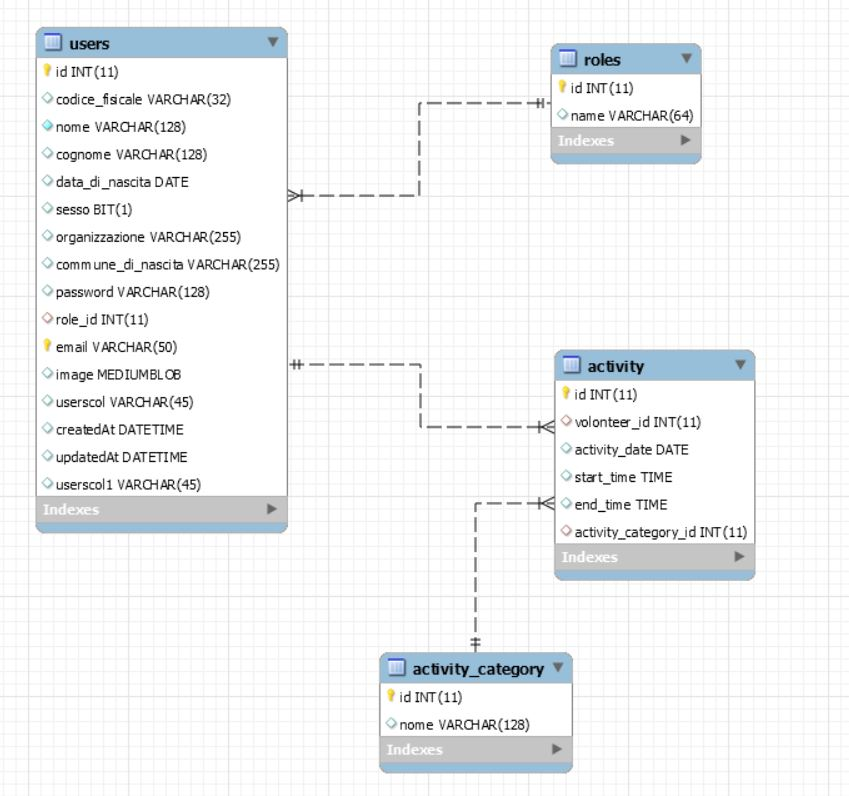
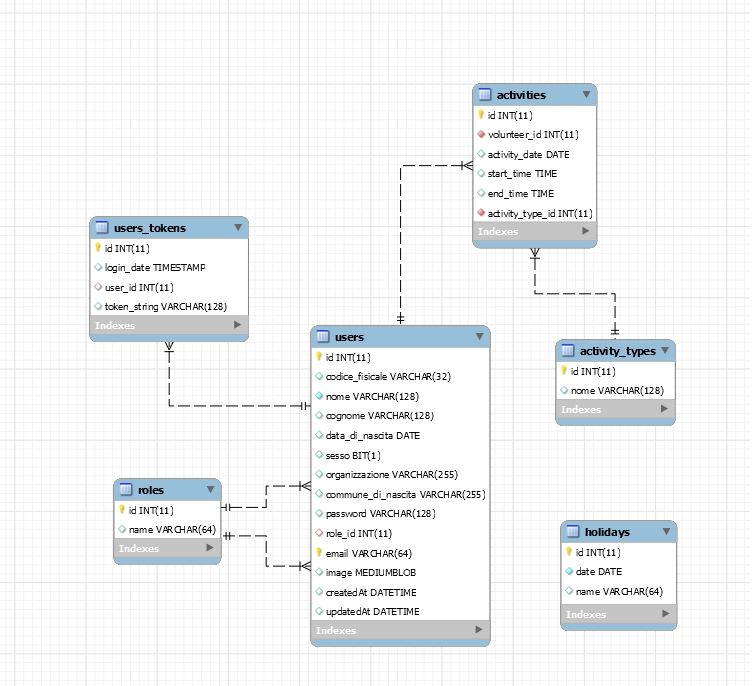
backend commit:
1. created db model file: users.js
2. created db model file: roles.js
3. created db model file: activities.js
4. created db model file: activity-types.js
5. created file: dbconfig.js with connection config

Created tables: users_tokens to store auth tokens
Created tables: holidays to store holidays

updated dbdiagram.JPG
updated install.sql / added tables

diff --git a/Backend/db/models/users.js b/Backend/db/models/users.js
@@ -1,0 +1,55 @@
+const Sequelize   = require('sequelize');
+const DataType    = require('sequelize').DataTypes;
+
+const sequelize = new Sequelize(config.database, config.user, config.password, {
+    host: config.host,
+    dialect: config.type
+});
+
+
+const User = sequelize.define('user', {
+    id: { 
+        type:       DataType.INTEGER, 
+        primaryKey: true, 
+    },
+
+    codice_fisicale:        DataType.STRING(32),
+    nome:                   DataType.STRING(128),
+    cognome:                DataType.STRING(128),
+    data_di_nascita:        DataType.DATE,
+    
+    sesso:                  { 
+        type: DataType.BIT, 
+        defaultValue: true 
+    },
+
+    organizzazione:         DataType.STRING(255),
+    commune_di_nascita:     DataType.STRING(255),
+    password:               DataType.STRING(128),
+    email: { 
+        type: DataType.STRING(128),
+        name: "email",
+        unique: true
+    },
+
+    role_id: {
+        type: DataType.INTEGER,
+        references: {
+            model: roles,
+            key: 'id',
+            defaultValue: 3
+        }
+
+    },
+    createdAt:              DataType.DATE,
+    updatedAt:              DataType.DATE,
+
+    is_deleted: { 
+        type: DataType.BIT, 
+        defaultValue: false 
+    }
+
+
+});
+
+module.exports = User;

diff --git a/Backend/db/models/activities.js b/Backend/db/models/activities.js
@@ -1,0 +1,32 @@
+const Sequelize   = require('sequelize');
+const DataType    = require('sequelize').DataTypes;
+
+const config = require('../configs/sqldbconfig');
+
+const sequelize = new Sequelize(config.database, config.user, config.password, {
+    host: config.host,
+    dialect: config.type
+});
+
+
+const Activities = sequelize.define('activities', {
+    
+    volonteer_id: {
+        type: DataType.INTEGER,
+
+        allowNull: false,
+        references: {
+            model: users,
+            key: 'id'
+        }
+    },
+
+    id: {
+        type:       DataType.INTEGER, 
+        primaryKey: true 
+    },
+
+    name: DataType.STRING(64) 
+});
+
+module.exports = Activities;

diff --git a/Backend/db/models/activity-types.js b/Backend/db/models/activity-types.js
@@ -1,0 +1,19 @@
+const Sequelize   = require('sequelize');
+const DataType    = require('sequelize').DataTypes;
+
+const sequelize = new Sequelize(config.database, config.user, config.password, {
+    host: config.host,
+    dialect: config.type
+});
+
+const ActivityTypes = sequelize.define('activities', {
+    
+    id: { 
+        type:       DataType.INTEGER, 
+        primaryKey: true, 
+    },
+
+    name: DataType.STRING(64) 
+});
+
+module.exports = ActivityTypes;

diff --git a/Backend/db/models/roles.js b/Backend/db/models/roles.js
@@ -1,0 +1,18 @@
+const Sequelize   = require('sequelize');
+const DataType    = require('sequelize').DataTypes;
+
+const sequelize = new Sequelize(config.database, config.user, config.password, {
+    host: config.host,
+    dialect: config.type
+});
+const Role = sequelize.define('roles', {
+    
+    id: { 
+        type:       DataType.INTEGER, 
+        primaryKey: true, 
+    },
+
+    name: DataType.STRING(64) 
+});
+
+module.exports = Role;

diff --git a/Backend/db/configs/sqldbconfig.js b/Backend/db/configs/sqldbconfig.js
@@ -1,0 +1,7 @@
+module.exports = {
+    type: "mysql",
+    host: "localhost",
+    user: "root",
+    password: '12204900',
+    database: 'cnca'
+}

diff --git a/README.md b/README.md
@@ -110,4 +110,4 @@ This registration is only done the first time the program is used.
 
 ### Database Schema
 
-![](docs/database/dbdiagram.jpg)
+![](/docs/database/dbdiagram.jpg)
